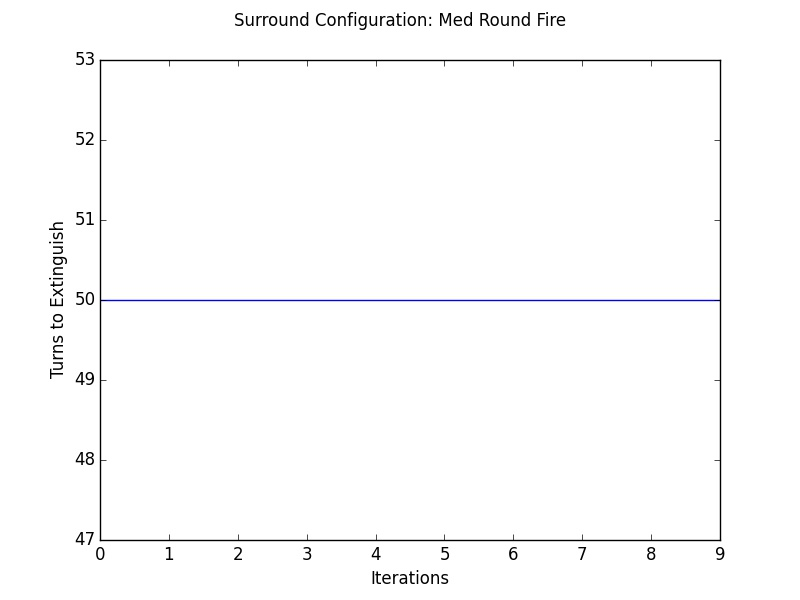
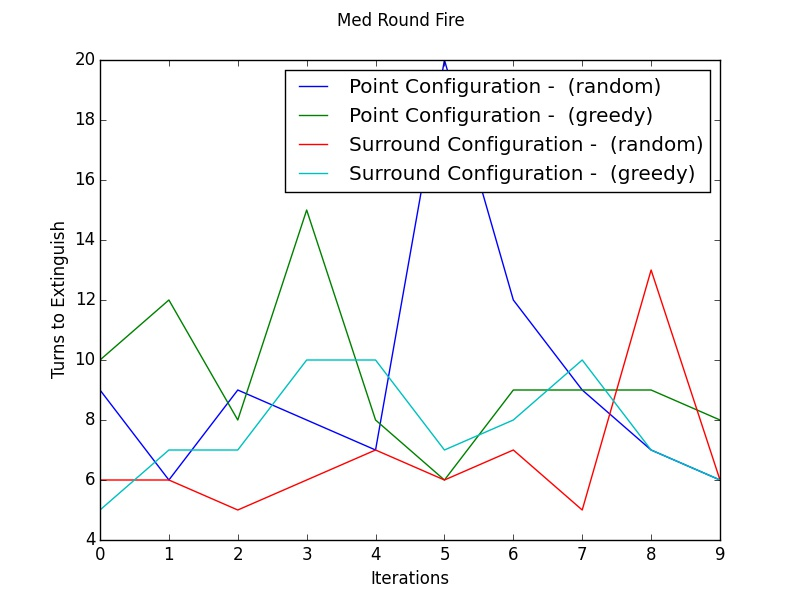
finalized testing

diff --git a/firesim.py b/firesim.py
@@ -157,14 +157,14 @@ class FireFighter:
                 # else it depends of proximity to a the most intense fire divided by how far it is
                 else:
                     reward_row.append(0.)
-                    # max_neighbor = 0
-                    # times = 0.
-                    # while max_neighbor == 0 and times < L:
-                    #     times +=1.
-                    #     for dx,dy in self.actList:
-                    #         if (x+dx*times,y+dy*times) in grid:
-                    #             max_neighbor = max(max_neighbor, grid[(x+dx*times,y+dy*times)].fire_inten)
-                    # reward_row.append(max_neighbor/times) ## need to discount somehow -- picked 1/2 arbitrarily -- removed
+                    max_neighbor = 0
+                    times = 0.
+                    while max_neighbor == 0 and times < L:
+                        times +=1.
+                        for dx,dy in self.actList:
+                            if (x+dx*times,y+dy*times) in grid:
+                                max_neighbor = max(max_neighbor, grid[(x+dx*times,y+dy*times)].fire_inten)
+                    reward_row.append(max_neighbor/times) ## need to discount somehow -- picked 1/2 arbitrarily -- removed
             reward_grid.append(reward_row)
 
         return reward_grid
@@ -446,8 +446,7 @@ class AreaSimulation:
                     if fire[0] + dx >= 0 and fire[0] + dx < self.L \
                        and fire[1] + dy >= 0 and fire[1] + dy < self.L:
                             # and it's not already in our list
-                            if (fire[0] + dx,fire[1] + dy) not in ff_placement_poss \
-                                and (fire[0] + dx,fire[1] + dy) not in fires:
+                            if (fire[0] + dx,fire[1] + dy) not in ff_placement_poss:
                                 ff_placement_poss.append((fire[0] + dx,fire[1] + dy))
                                 
         best_placement = None

diff --git a/firetests.py b/firetests.py
@@ -114,7 +114,7 @@ def generateOddFire(center, radius, minInten = 0.1):
 ################################################################
 # BUILD FIRES
 
-testSize = 30
+testSize = 10
 totalNumFFs = 8
 fires = []
 
@@ -249,13 +249,13 @@ strats2 = ["random", "greedy", "optimal", "teamOptimal"]
 # print "###"
 for name, center, radius, cells in fires:
 	for configStyle in range(2): # 0 - point, 1 - surround, 2 - optimal
-		for strat in strats:
+		for strat in strats2:
 			trials = 10
 			stepsToExtinguish = []
 
 			# Initialize figure
 			fig = plt.figure(figIdx)
-			fig.suptitle(styles[configStyle] + name + " (" + strat+ ")")
+			fig.suptitle(name)
 			plt.xlabel('Iterations')
 			plt.ylabel('Turns to Extinguish')
 			for t in range(trials):
@@ -297,6 +297,7 @@ for name, center, radius, cells in fires:
 
 
 			print "Done. Plotting", styles[configStyle], name, strat
-			plt.plot(stepsToExtinguish)
-			fig.savefig(styles[configStyle] + name + strat + '.jpg')
-			figIdx += 1
+			plt.plot(stepsToExtinguish, label = styles[configStyle] + " (" + strat + ")")
+	plt.legend()
+	fig.savefig(name + '.jpg')
+	figIdx += 1
